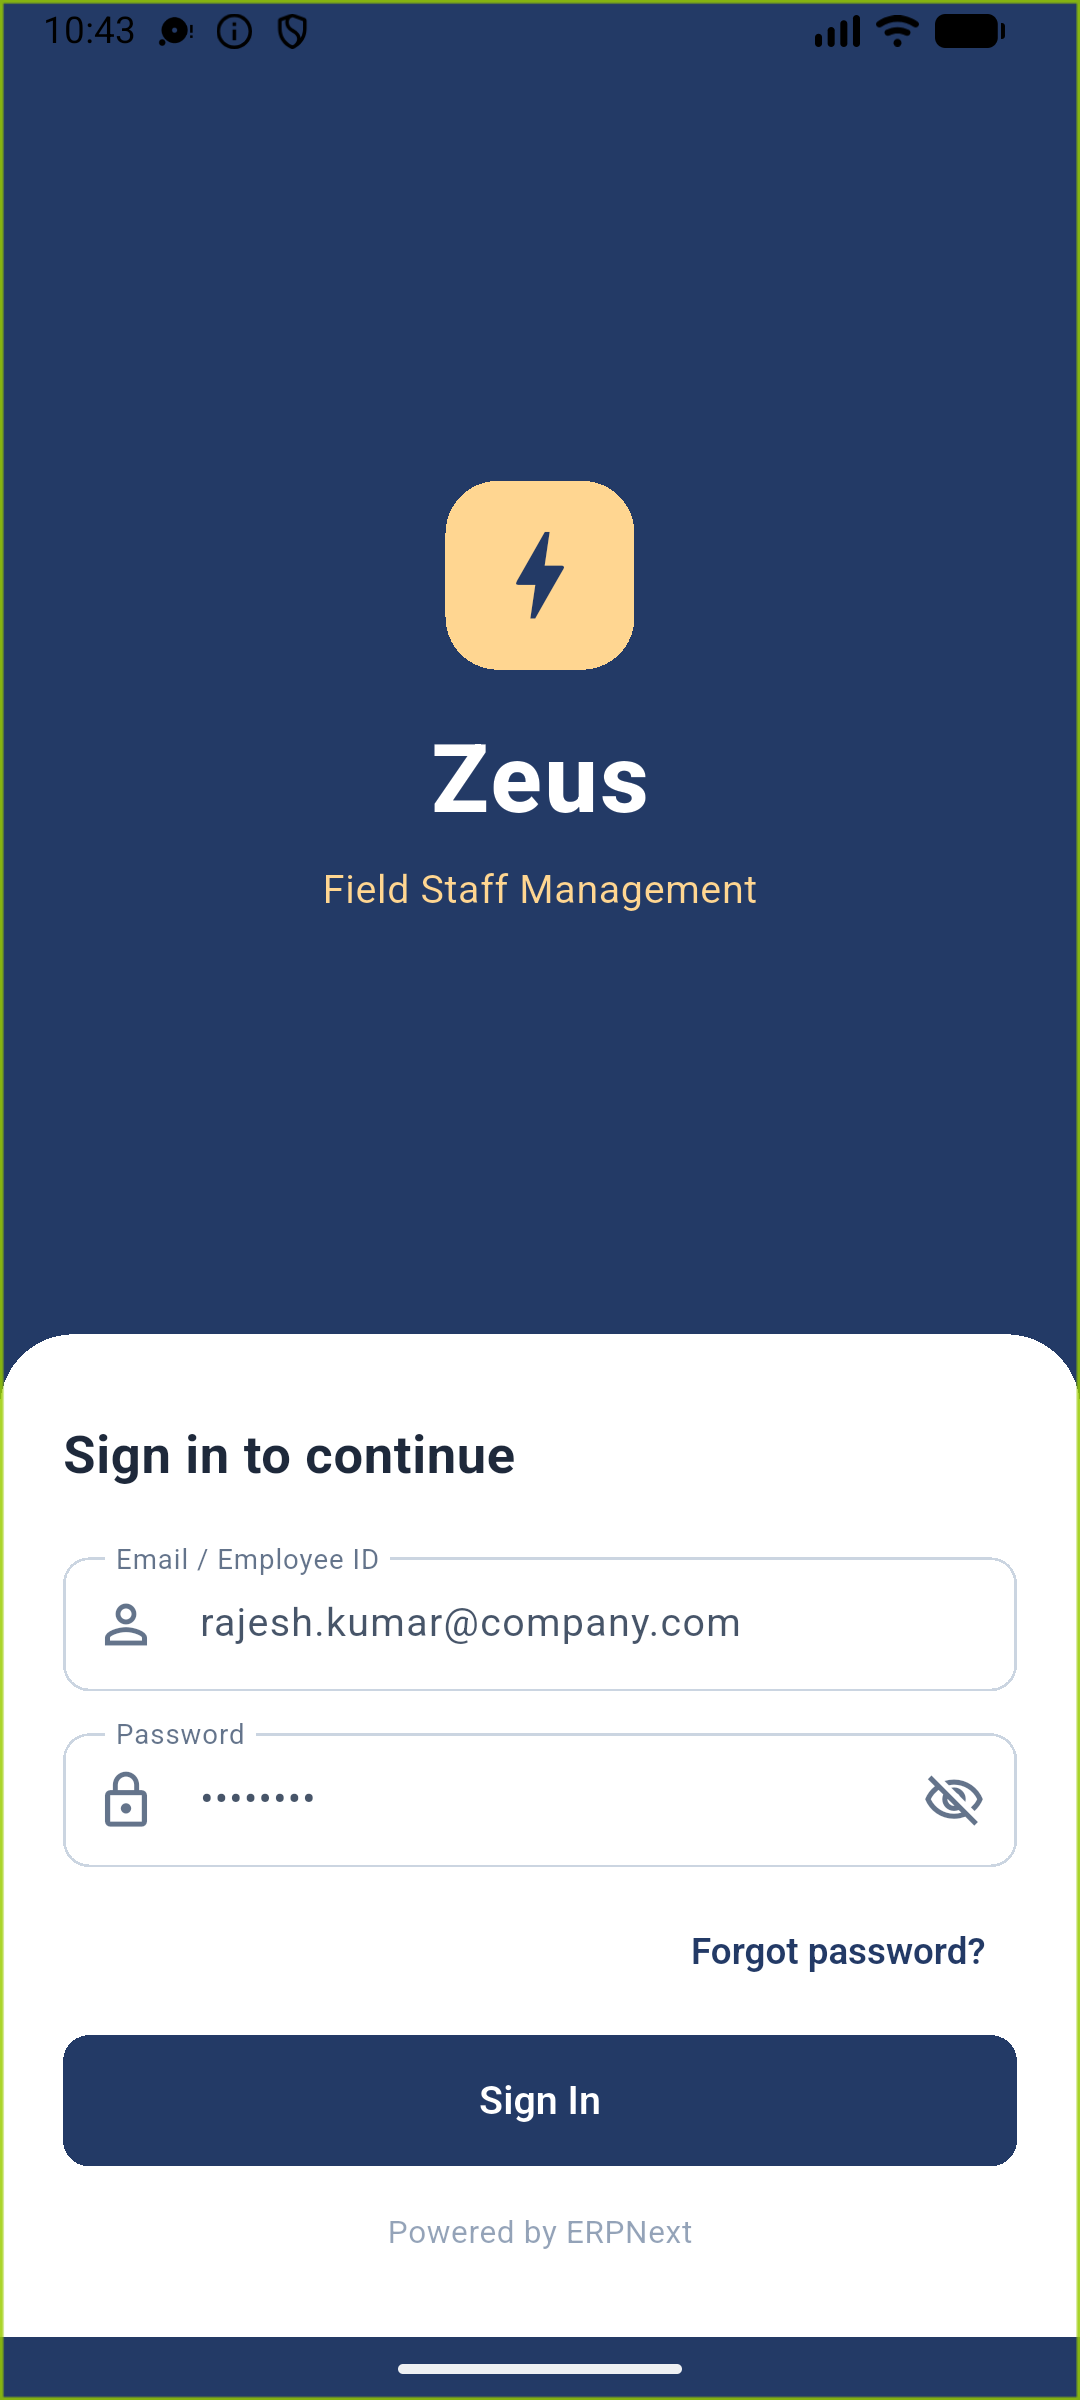
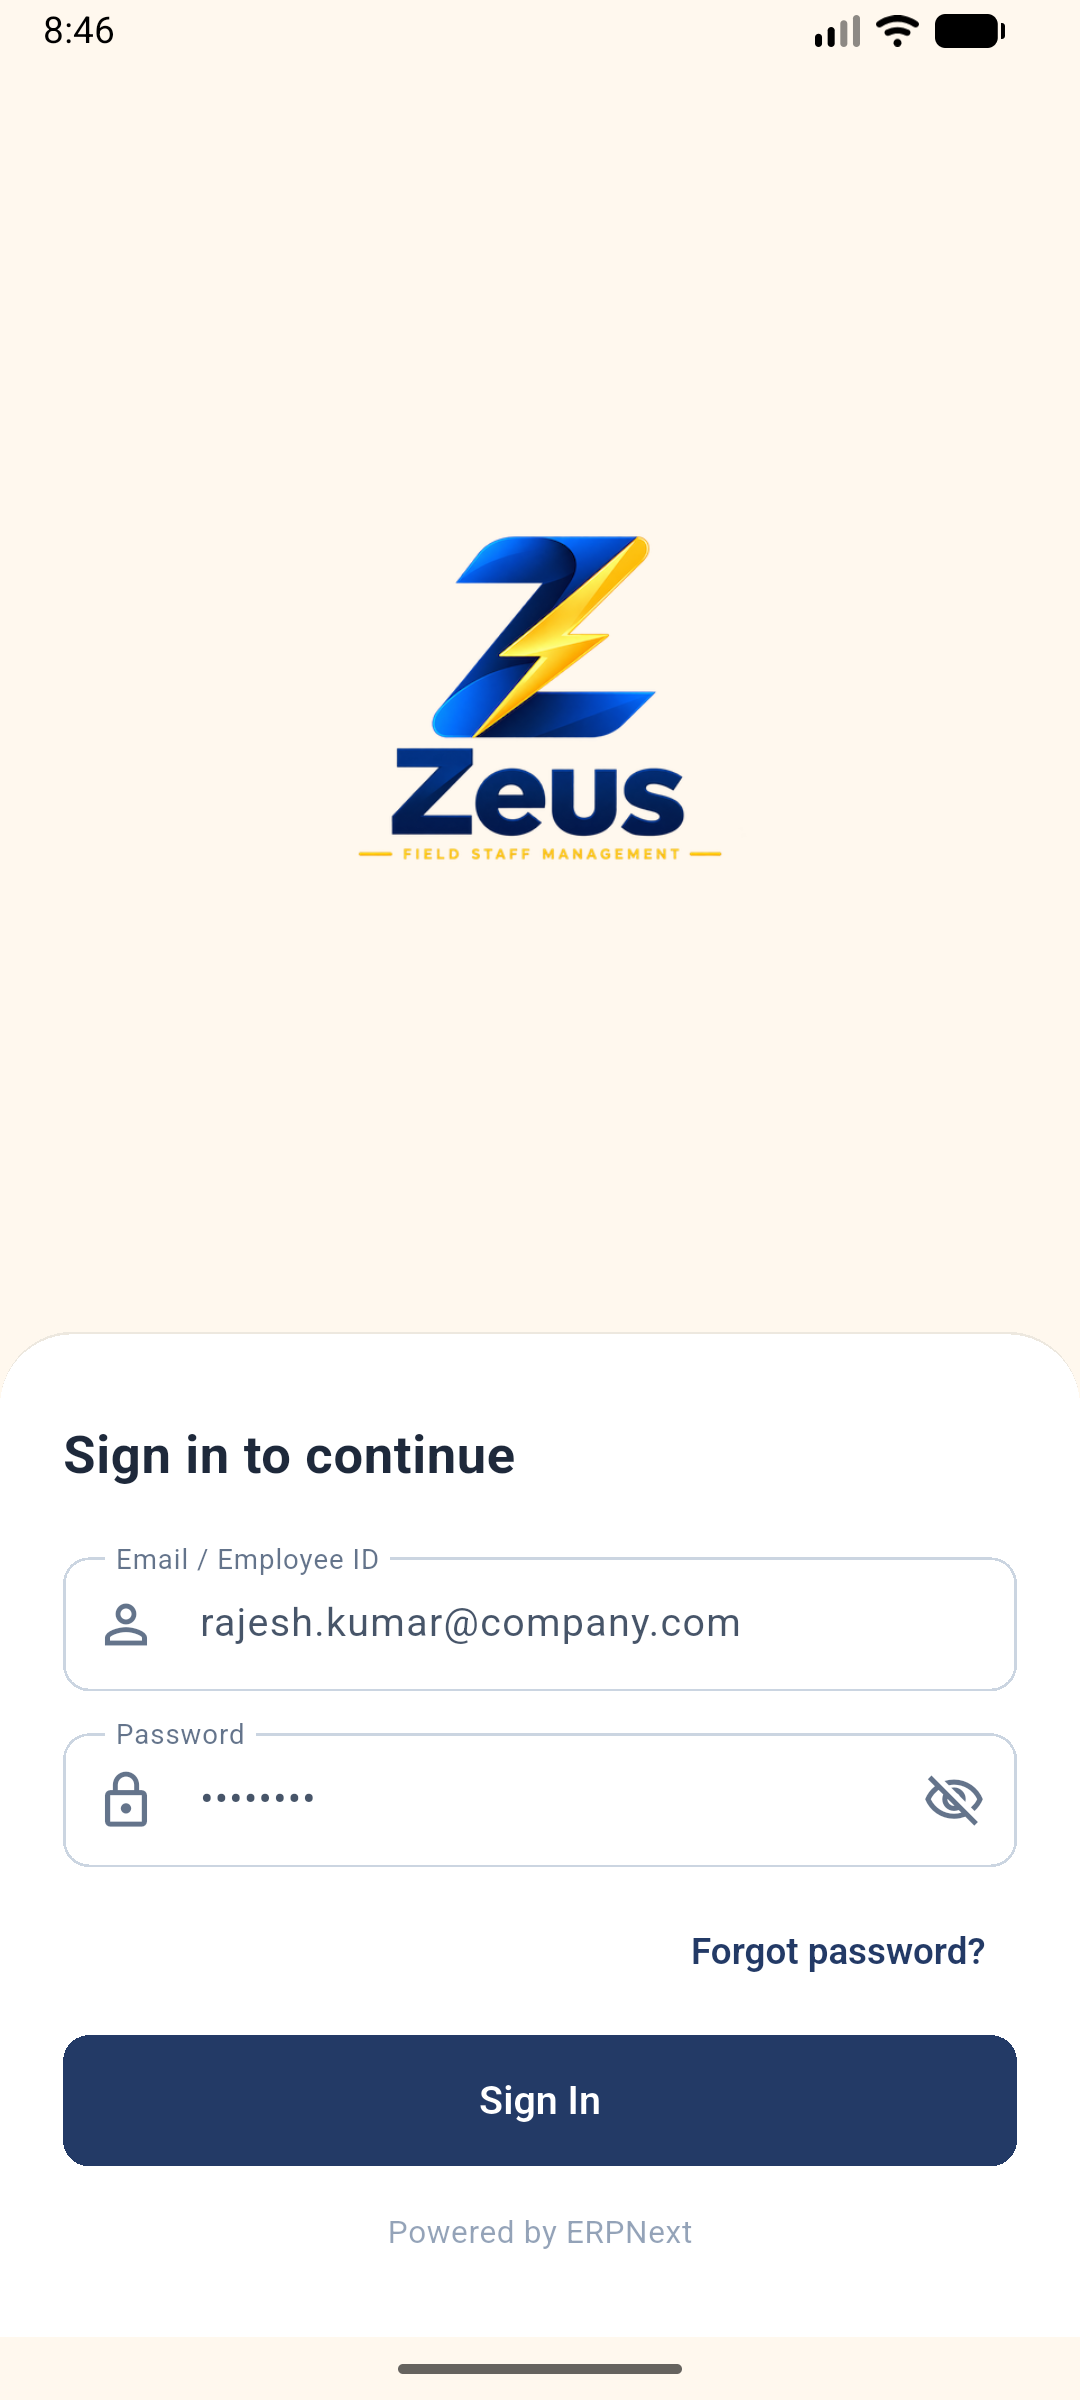
updated the screenshot

diff --git a/app/lib/screens/login_screen.dart b/app/lib/screens/login_screen.dart
@@ -27,7 +27,7 @@ class _LoginScreenState extends State<LoginScreen> {
   @override
   Widget build(BuildContext context) {
     return Scaffold(
-      backgroundColor: AppTheme.primary,
+      backgroundColor: AppTheme.surface,
       body: SafeArea(
         child: Column(
           children: [
@@ -37,29 +37,10 @@ class _LoginScreenState extends State<LoginScreen> {
               padding: const EdgeInsets.symmetric(horizontal: 32),
               child: Column(
                 children: [
-                  Container(
-                    width: 72,
-                    height: 72,
-                    decoration: BoxDecoration(
-                      color: AppTheme.accent,
-                      borderRadius: BorderRadius.circular(20),
-                    ),
-                    child: const Icon(Icons.bolt, size: 44, color: AppTheme.primary),
-                  ),
-                  const SizedBox(height: 16),
-                  const Text(
-                    'Zeus',
-                    style: TextStyle(
-                      color: Colors.white,
-                      fontSize: 36,
-                      fontWeight: FontWeight.w800,
-                      letterSpacing: 1,
-                    ),
-                  ),
-                  const SizedBox(height: 6),
-                  const Text(
-                    'Field Staff Management',
-                    style: TextStyle(color: AppTheme.accent, fontSize: 15),
+                  Image.asset(
+                    'assets/logo.png',
+                    width: 180,
+                    height: 180,
                   ),
                 ],
               ),
@@ -67,9 +48,10 @@ class _LoginScreenState extends State<LoginScreen> {
             const Spacer(),
             // Login card
             Container(
-              decoration: const BoxDecoration(
-                color: Colors.white,
-                borderRadius: BorderRadius.vertical(top: Radius.circular(28)),
+              decoration: BoxDecoration(
+                color: AppTheme.cardBg,
+                borderRadius: const BorderRadius.vertical(top: Radius.circular(28)),
+                border: const Border(top: BorderSide(color: AppTheme.divider)),
               ),
               padding: const EdgeInsets.fromLTRB(24, 32, 24, 32),
               child: Column(
